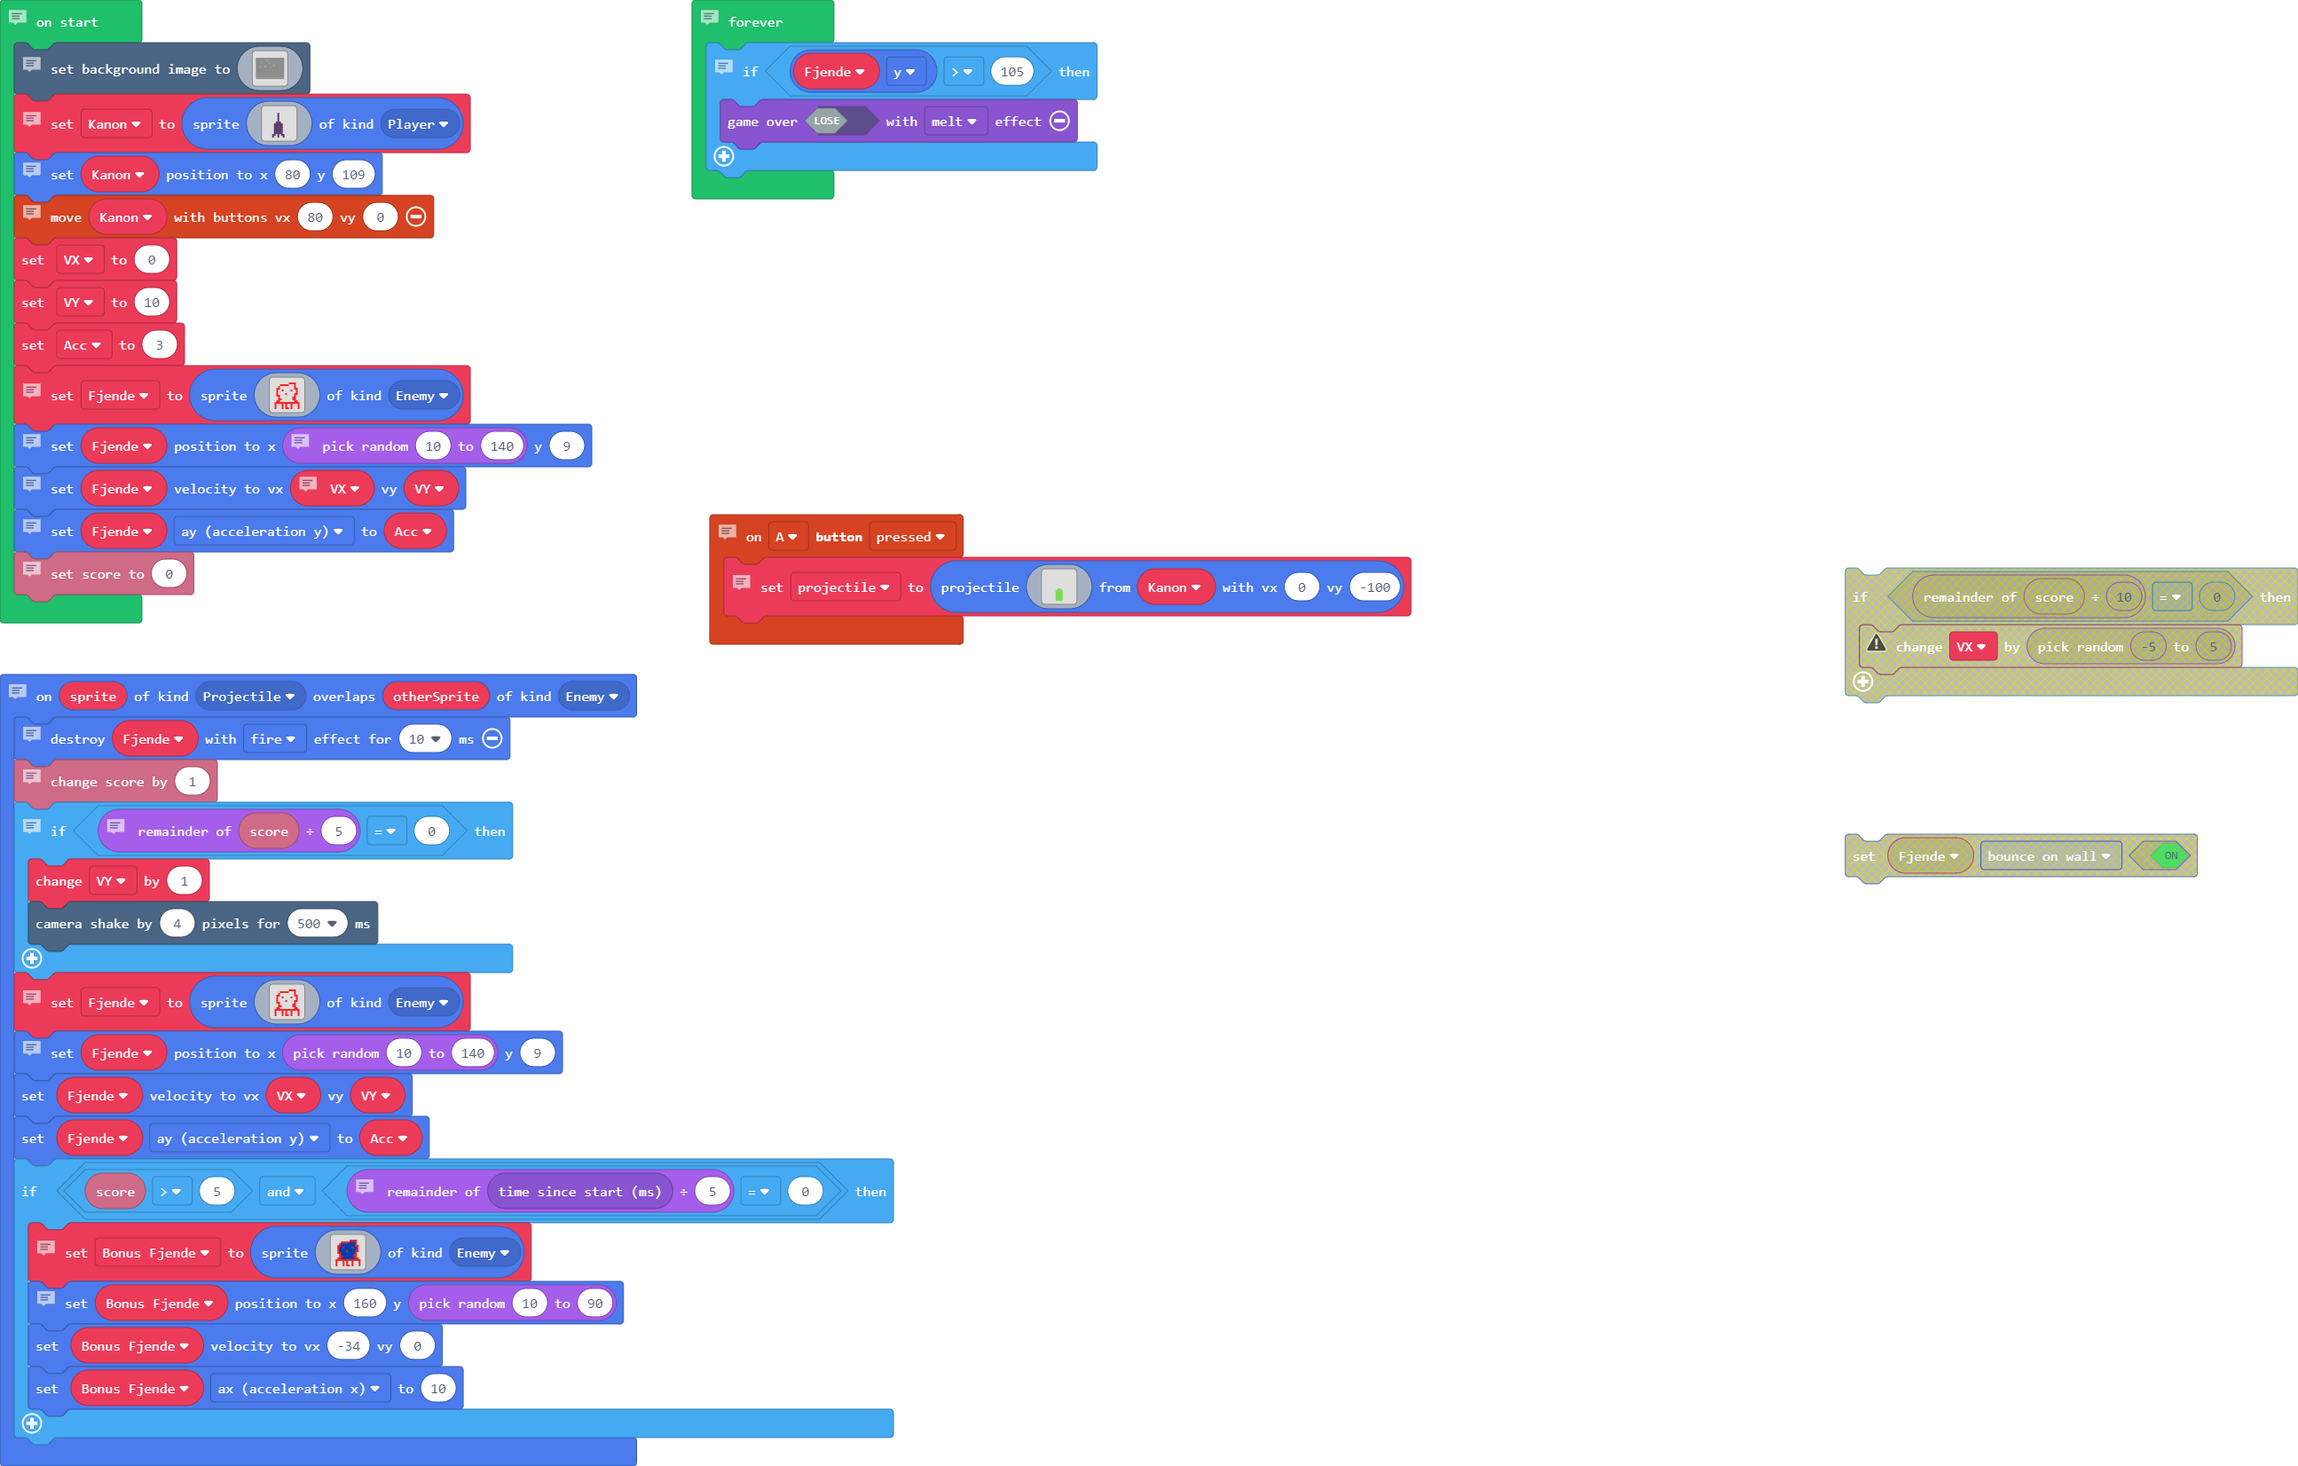
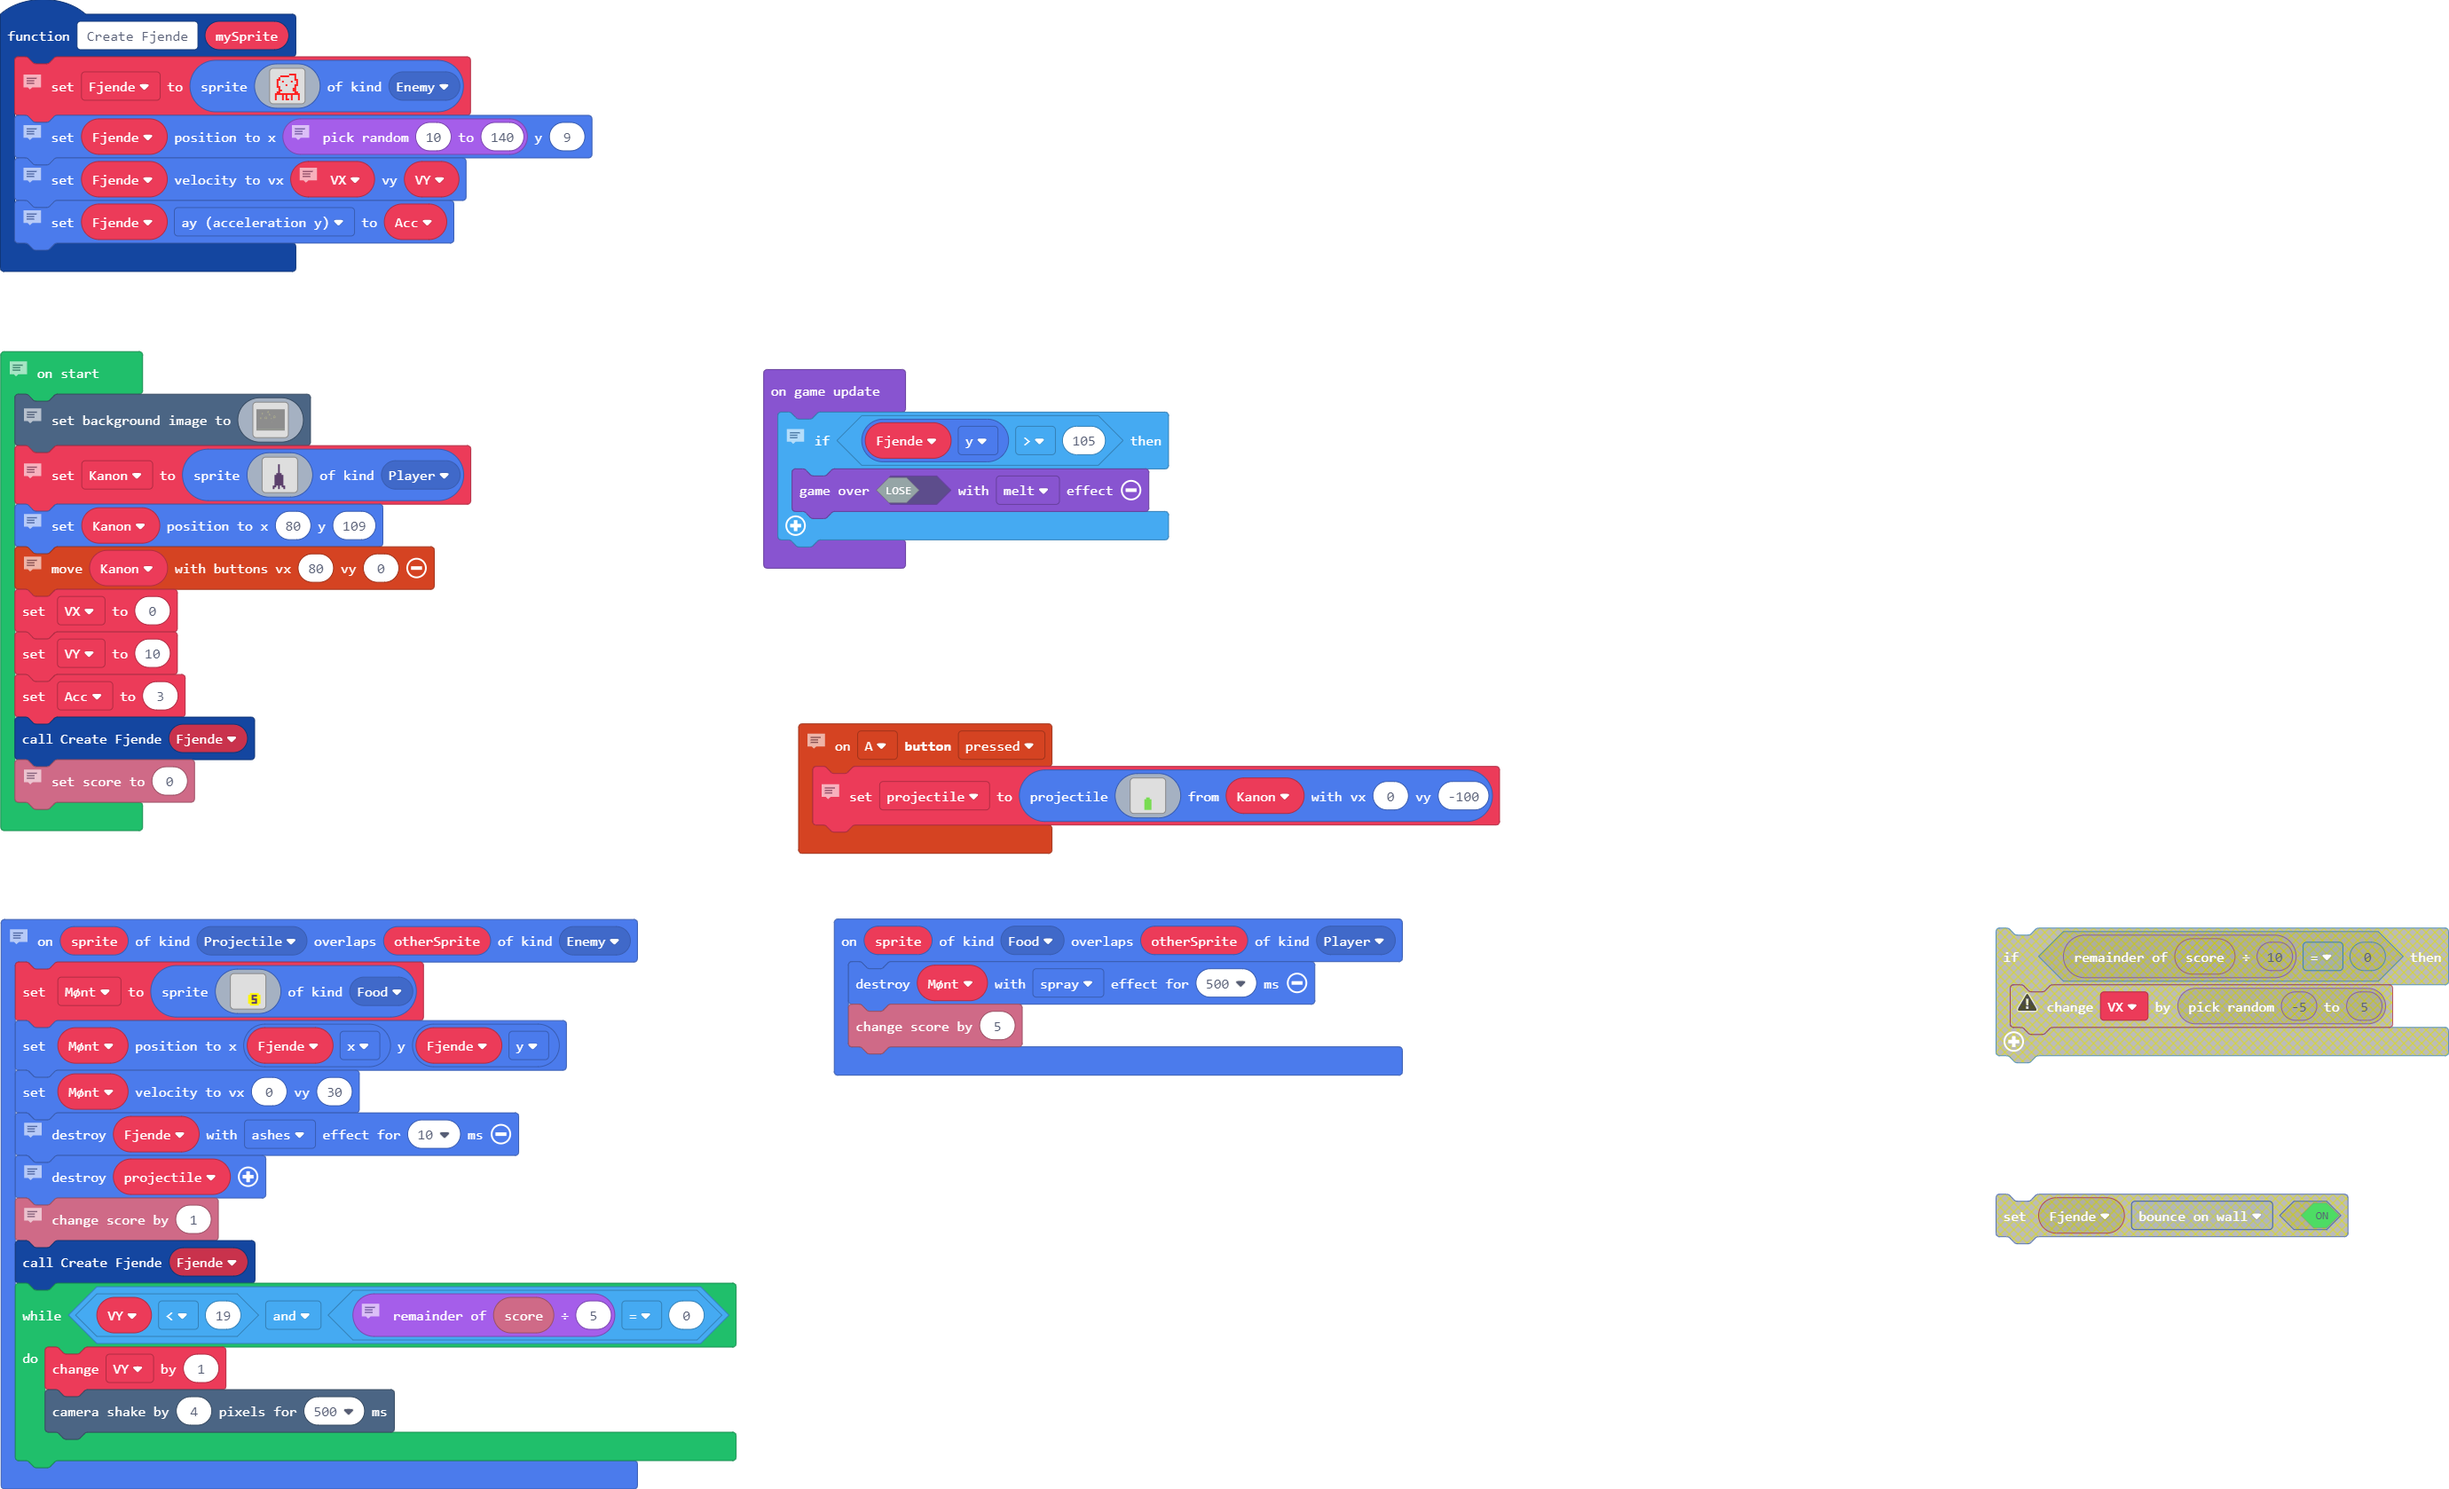
Added Food

diff --git a/main.ts b/main.ts
@@ -1,13 +1,36 @@
+sprites.onOverlap(SpriteKind.Food, SpriteKind.Player, function (sprite, otherSprite) {
+    Mønt.destroy(effects.spray, 500)
+    info.changeScoreBy(5)
+})
 // Alt dette udføres hvis projektilet rammer fjenden
 sprites.onOverlap(SpriteKind.Projectile, SpriteKind.Enemy, function (sprite, otherSprite) {
+    Mønt = sprites.create(img`
+. . . . . . . . . . . . . . . . 
+. . . . . . . . . . . . . . . . 
+. . . . . . . . . . . . . . . . 
+. . . . . . . . . . . . . . . . 
+. . . . . . . . . . . . . . . . 
+. . . . . . . . . . . . . . . . 
+. . . . . . . . . . . . . . . . 
+. . . . . . . . . . . . . . . . 
+. . . . . . . . . . . . . . . . 
+. . . . . . . . . 5 5 5 5 5 . . 
+. . . . . . . . 5 5 c c c 5 5 . 
+. . . . . . . . 5 5 c 5 5 5 5 . 
+. . . . . . . . 5 5 c c c 5 5 . 
+. . . . . . . . 5 5 5 5 c 5 5 . 
+. . . . . . . . 5 5 c c c 5 5 . 
+. . . . . . . . . 5 5 5 5 5 . . 
+`, SpriteKind.Food)
+    Mønt.setPosition(Fjende.x, Fjende.y)
+    Mønt.setVelocity(0, 30)
     // Fjenden skal ødelægge sig selv med ILD effect
-    Fjende.destroy(effects.fire, 10)
+    Fjende.destroy(effects.ashes, 10)
+    // Granaten skal ødelægge sig selv
+    projectile.destroy()
     // Når vi har ramt en fjende får vi et point
     info.changeScoreBy(1)
-    // Hver 5. gang vi rammer en fjende, skal fjenderne
-    // falde lidt hurtigere. Dette markeres ved at
-    // kameraet ryster
-    //
+    Create_Fjende(Fjende)
     // hvis scoren divideret med 5 giver en rest på 0. Så
     // bliver det hver 5. gang.
     //
@@ -15,11 +38,13 @@ sprites.onOverlap(SpriteKind.Projectile, SpriteKind.Enemy, function (sprite, oth
     //
     //
     // Hvis vi ændrer til 7, så bliver det hver 7. gang
-    if (info.score() % 5 == 0) {
+    while (VY < 19 && info.score() % 5 == 0) {
         VY += 1
         scene.cameraShake(4, 500)
     }
-    // Jeg laver en ny fjende
+})
+function Create_Fjende (mySprite: Sprite) {
+    // Her tegner jeg fjenden
     Fjende = sprites.create(img`
 . . . . . . . . . . . . . . . . 
 . . . . . . . . . 2 2 2 2 . . . 
@@ -38,43 +63,29 @@ sprites.onOverlap(SpriteKind.Projectile, SpriteKind.Enemy, function (sprite, oth
 . 2 . . . 2 . 2 . . 2 . . . 2 . 
 . 2 . . . 2 . 2 2 . 2 . . . 2 . 
 `, SpriteKind.Enemy)
-    // Et tilfældigt sted i toppen af skærmen
+    // Fjenden placeres øverst på skærmen, et tilfældigt
+    // sted
+    //
+    // Laver et tilfældigt tal ml. 10 og 140
     Fjende.setPosition(Math.randomRange(10, 140), 9)
+    // Her angives hvor hurtigt fjenden skal bevæge sig.
+    //
+    // vx er hastighed sidelæns,
+    //
+    // vy er hastigheden op/ned
+    //
+    // vx=0 - ingen bevægelse sidelæns
+    //
+    //
+    // vy=10 - fjenden falder 10 pixels i sekundet
+    //
+    //
+    // Acc=3 - Fjenden falder hurtigere og hurtigere
     Fjende.setVelocity(VX, VY)
+    // Angiver om fjenden skal falde hurtigere og
+    // hurtigere
     Fjende.ay = Acc
-    // hvis scoren divideret med 5 giver en rest på 0. Så
-    // bliver det hver 5. gang.
-    //
-    // (5 tabellen)
-    //
-    //
-    // Hvis vi ændrer til 7, så bliver det hver 7. gang
-    if (info.score() > 5 && game.runtime() % 5 == 0) {
-        // Jeg laver en ny fjende
-        Bonus_Fjende = sprites.create(img`
-. . . . . . . . . . . . . . . . 
-. . . . . . . . . 2 2 2 2 . . . 
-. . . . 2 2 2 2 2 8 8 8 2 . . . 
-. . . 2 8 8 8 8 8 8 8 8 2 . . . 
-. . 2 2 8 8 8 8 8 8 8 8 2 2 . . 
-. . 2 8 8 2 8 8 8 8 2 8 8 2 . . 
-. . 2 8 8 8 8 8 8 8 8 8 8 2 . . 
-. . 2 8 8 8 8 2 8 8 8 8 2 2 . . 
-. . 2 2 8 8 8 8 8 8 8 8 2 . . . 
-. . . 2 8 8 8 8 8 8 8 2 2 . . . 
-. . . 2 2 8 8 8 8 8 8 2 2 . . . 
-. . 2 2 8 8 8 8 8 8 8 8 2 2 . . 
-. 2 2 2 2 2 2 2 2 2 2 2 2 2 2 . 
-. 2 . . . 2 . 2 . . 2 . . . 2 . 
-. 2 . . . 2 . 2 . . 2 . . . 2 . 
-. 2 . . . 2 . 2 2 . 2 . . . 2 . 
-`, SpriteKind.Enemy)
-        // Et tilfældigt sted i toppen af skærmen
-        Bonus_Fjende.setPosition(160, Math.randomRange(10, 90))
-        Bonus_Fjende.setVelocity(-34, 0)
-        Bonus_Fjende.ax = 10
-    }
-})
+}
 // Udføres når man trykker på knappen A
 controller.A.onEvent(ControllerButtonEvent.Pressed, function () {
     // Her har jeg tegnet granaten, og bestemt at den skal
@@ -100,7 +111,7 @@ controller.A.onEvent(ControllerButtonEvent.Pressed, function () {
 `, Kanon, 0, -100)
 })
 let projectile: Sprite = null
-let Bonus_Fjende: Sprite = null
+let Mønt: Sprite = null
 let Fjende: Sprite = null
 let Acc = 0
 let VY = 0
@@ -260,51 +271,10 @@ controller.moveSprite(Kanon, 80, 0)
 VX = 0
 VY = 10
 Acc = 3
-// Her tegner jeg fjenden
-Fjende = sprites.create(img`
-. . . . . . . . . . . . . . . . 
-. . . . . . . . . 2 2 2 2 . . . 
-. . . . 2 2 2 2 2 . . . 2 . . . 
-. . . 2 . . . . . . . . 2 . . . 
-. . 2 2 . . . . . . . . 2 2 . . 
-. . 2 . . 2 . . . . 2 . . 2 . . 
-. . 2 . . . . . . . . . . 2 . . 
-. . 2 . . . . 2 . . . . 2 2 . . 
-. . 2 2 . . . . . . . . 2 . . . 
-. . . 2 . . . . . . . 2 2 . . . 
-. . . 2 2 . . . . . . 2 2 . . . 
-. . 2 2 . . . . . . . . 2 2 . . 
-. 2 2 2 2 2 2 2 2 2 2 2 2 2 2 . 
-. 2 . . . 2 . 2 . . 2 . . . 2 . 
-. 2 . . . 2 . 2 . . 2 . . . 2 . 
-. 2 . . . 2 . 2 2 . 2 . . . 2 . 
-`, SpriteKind.Enemy)
-// Fjenden placeres øverst på skærmen, et tilfældigt
-// sted
-//
-// Laver et tilfældigt tal ml. 10 og 140
-Fjende.setPosition(Math.randomRange(10, 140), 9)
-// Her angives hvor hurtigt fjenden skal bevæge sig.
-//
-// vx er hastighed sidelæns,
-//
-// vy er hastigheden op/ned
-//
-// vx=0 - ingen bevægelse sidelæns
-//
-//
-// vy=10 - fjenden falder 10 pixels i sekundet
-//
-//
-// Acc=3 - Fjenden falder hurtigere og hurtigere
-Fjende.setVelocity(VX, VY)
-// Angiver om fjenden skal falde hurtigere og
-// hurtigere
-Fjende.ay = Acc
+Create_Fjende(Fjende)
 // Fra starten har man 0 point
 info.setScore(0)
-// Denne blok tjekker hele tiden om vi er døde
-forever(function () {
+game.onUpdate(function () {
     // Hvis en fjende er nået hele vejen ned til bunden af
     // skærmen, er der Game Over, med smelte effect
     if (Fjende.y > 105) {
